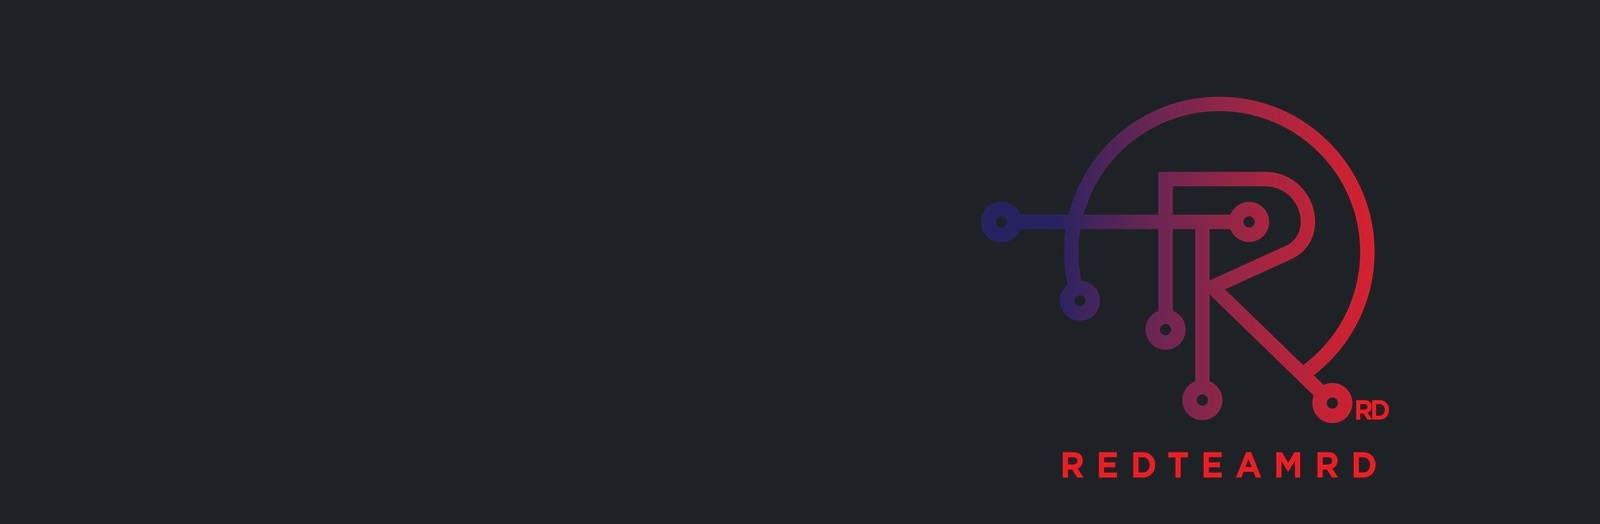
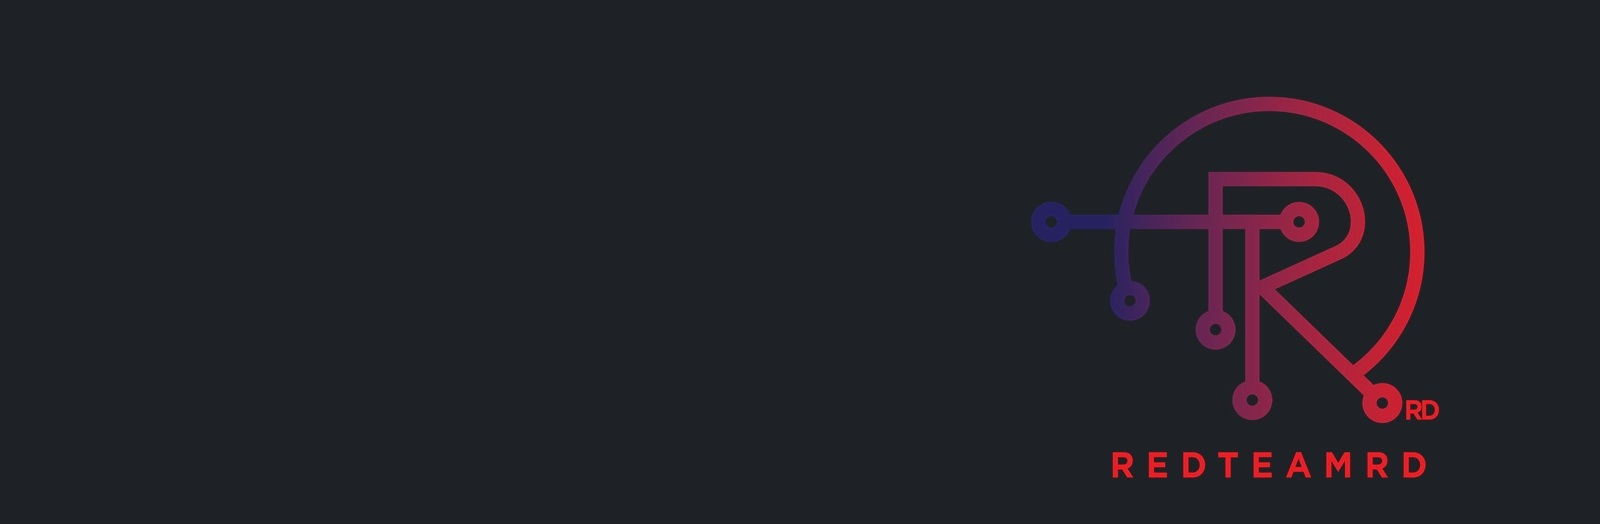
Maintenance

Changed region(s): [[0.5938, 0.1832, 0.9062, 0.8244], [0.6562, 0.855, 0.9062, 0.916]]

diff --git a/_pages/home.md b/_pages/home.md
@@ -6,10 +6,11 @@ header:
   overlay_color: "#5e616c"
   overlay_image: /assets/images/rt-home-page-feature.jpg
   actions:
-    - label: "<i class='fab fa-hackerrank'></i> H4ck y0ur w4y 1n"
+    - label: "<i class='fab fa-hackerrank'></i> H4CK Y0UR W4Y 1N"
       url: "/h4ck"
 excerpt: >
   Comunidad que busca reunir personas interesadas en ciberseguridad, proveyendo una espacio de colaboración y apoyo donde podamos aprender, enseñar, e inspirar a contribuir en mejorar la conciencia y el nivel técnico de ciberseguridad en la República Dominicana y el mundo.<br/>
+  ¿Tienes lo necesario para unirte a nosotros?
 intro: 
   - excerpt: 'Plataformas'
 feature_row:

diff --git a/_pages/maintenance.md b/_pages/maintenance.md
@@ -1,0 +1,8 @@
+---
+title: "Work in Process"
+permalink: /maintenance/
+date: 2021-09-16T03:02:20-04:00
+excerpt: "Maintenance page"
+header:
+  image: /assets/images/rt-maintenance.png
+---
